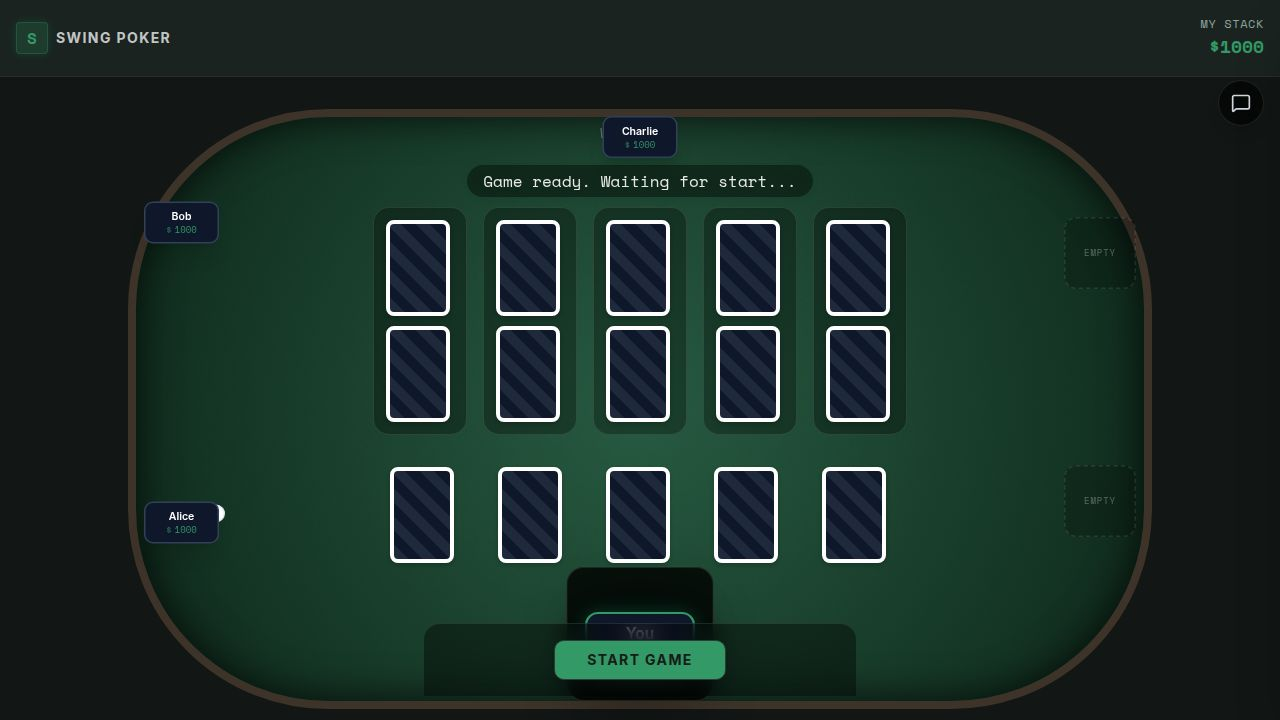
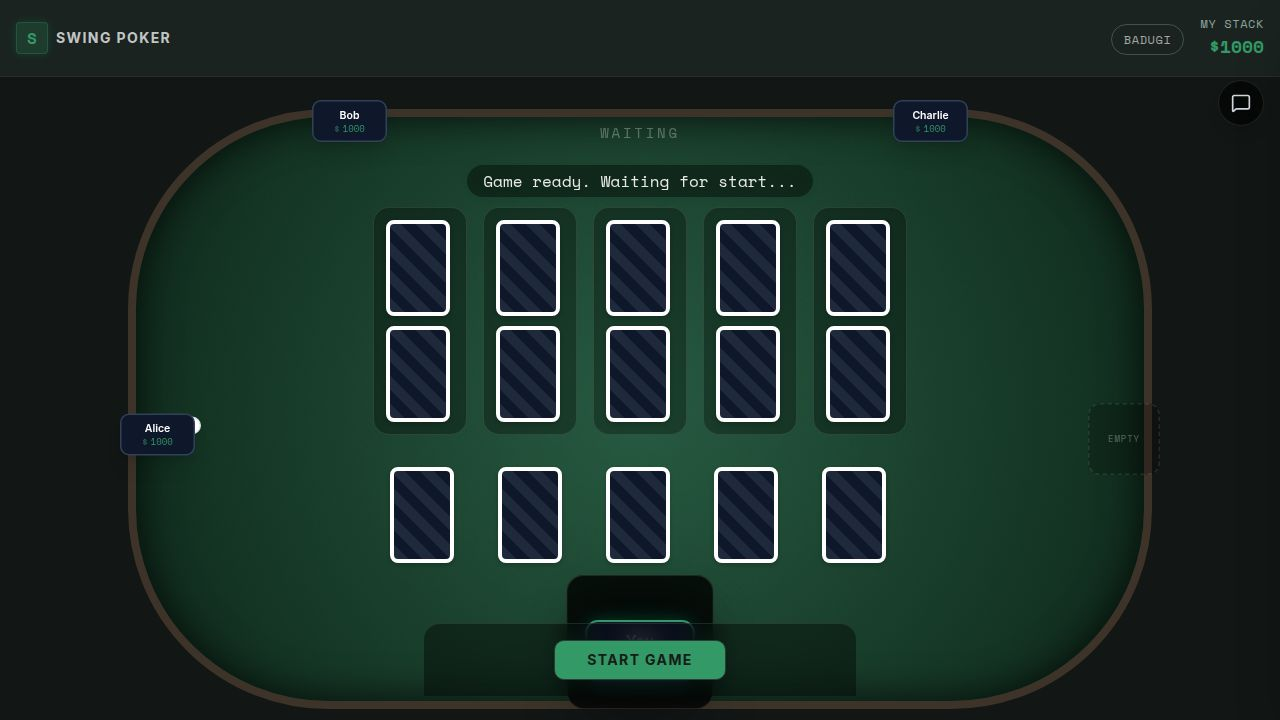
Adjust table layouts and fix game-halting bug in Badugi
Updates player seat positioning for improved mobile layout stability and resolves a critical bug in the Badugi game mode that caused a stall during the second draw phase by modifying the round progression logic.

Replit-Commit-Author: Agent
Replit-Commit-Session-Id: a8a0903d-6548-4b69-8b8f-c89d01671870
Replit-Commit-Checkpoint-Type: full_checkpoint
Replit-Commit-Event-Id: 6bbb62db-2211-43d4-8093-cc083d1be6a8
Replit-Commit-Screenshot-Url: https://storage.googleapis.com/screenshot-production-us-central1/b30810ef-c64c-449c-a8ce-6b19686a9135/a8a0903d-6548-4b69-8b8f-c89d01671870/LN8tTRZ
Replit-Helium-Checkpoint-Created: true

diff --git a/client/src/components/game/BadugiTable.tsx b/client/src/components/game/BadugiTable.tsx
@@ -27,25 +27,25 @@ export function BadugiTable({ gameState, myId, selectedCardIndices, onCardClick,
   const isShowdown = gameState.phase === 'SHOWDOWN';
 
   const getOpponentPosition = (index: number, total: number) => {
-    if (total === 1) return "top-6 sm:top-8 left-1/2 -translate-x-1/2";
+    if (total === 1) return "-top-2 sm:top-2 left-1/2 -translate-x-1/2";
     if (total === 2) {
       return [
-        "top-[15%] left-[22%] -translate-x-1/2",
-        "top-[15%] right-[22%] translate-x-1/2",
+        "-top-2 sm:top-2 left-[20%] sm:left-[25%] -translate-x-1/2",
+        "-top-2 sm:top-2 right-[20%] sm:right-[25%] translate-x-1/2",
       ][index];
     }
     if (total === 3) {
       return [
-        "top-[20%] left-[12%] sm:left-[15%]",
-        "top-4 sm:top-6 left-1/2 -translate-x-1/2",
-        "top-[20%] right-[12%] sm:right-[15%]",
+        "top-[18%] -left-2 sm:left-2",
+        "-top-2 sm:top-2 left-1/2 -translate-x-1/2",
+        "top-[18%] -right-2 sm:right-2",
       ][index];
     }
     return [
-      "left-4 sm:left-8 top-[35%] -translate-y-1/2",
-      "top-4 sm:top-6 left-[30%] -translate-x-1/2",
-      "top-4 sm:top-6 right-[30%] translate-x-1/2",
-      "right-4 sm:right-8 top-[35%] -translate-y-1/2",
+      "top-[30%] -left-4 sm:-left-1 -translate-y-1/2",
+      "-top-2 sm:top-2 left-[28%] sm:left-[30%] -translate-x-1/2",
+      "-top-2 sm:top-2 right-[28%] sm:right-[30%] translate-x-1/2",
+      "top-[30%] -right-4 sm:-right-1 -translate-y-1/2",
     ][index] || "hidden";
   };
 

diff --git a/client/src/components/game/GameTable.tsx b/client/src/components/game/GameTable.tsx
@@ -21,11 +21,11 @@ export function GameTable({ gameState, myId, selectedCardIndices, onCardClick, s
 
   const getSeatPosition = (index: number) => {
     const positions = [
-      "bottom-2 left-1/2 -translate-x-1/2 scale-110 origin-bottom",
-      "left-2 sm:left-6 top-1/2 -translate-y-1/2 scale-75 origin-left",
-      "top-4 sm:top-6 left-[20%] -translate-x-1/2 scale-75 origin-top",
-      "top-4 sm:top-6 right-[20%] translate-x-1/2 scale-75 origin-top",
-      "right-2 sm:right-6 top-1/2 -translate-y-1/2 scale-75 origin-right",
+      "bottom-0 left-1/2 -translate-x-1/2 scale-110 origin-bottom",
+      "-left-4 sm:-left-2 top-[55%] -translate-y-1/2 scale-[0.65] sm:scale-75 origin-left",
+      "-top-2 sm:top-0 left-[15%] sm:left-[18%] scale-[0.65] sm:scale-75 origin-top-left",
+      "-top-2 sm:top-0 right-[15%] sm:right-[18%] scale-[0.65] sm:scale-75 origin-top-right",
+      "-right-4 sm:-right-2 top-[55%] -translate-y-1/2 scale-[0.65] sm:scale-75 origin-right",
     ];
     return positions[index] || "hidden";
   };

diff --git a/client/src/lib/poker/engine/useGameEngine.ts b/client/src/lib/poker/engine/useGameEngine.ts
@@ -46,6 +46,7 @@ export function useGameEngine(mode: GameMode, myId: string = 'p1') {
       
       // Reset bets on new betting round
       const isBetRound = nextPhase.startsWith('BET') || nextPhase === 'DECLARE_AND_BET' || nextPhase === 'BET_3';
+      const isDrawRound = nextPhase.startsWith('DRAW');
       return { 
         ...s, 
         phase: nextPhase, 
@@ -54,7 +55,7 @@ export function useGameEngine(mode: GameMode, myId: string = 'p1') {
         players: s.players.map(p => ({
           ...p,
           hasActed: false,
-          bet: isBetRound ? 0 : p.bet
+          bet: (isBetRound || isDrawRound) ? 0 : p.bet
         })),
         messages: [...s.messages, { id: Math.random().toString(), text: `Phase changed to ${nextPhase.replace(/_/g, ' ')}`, time: Date.now() }].slice(-5)
       };

diff --git a/client/src/lib/poker/modes/badugi.ts b/client/src/lib/poker/modes/badugi.ts
@@ -125,7 +125,8 @@ export const BadugiMode: GameMode = {
     const activePlayers = newPlayers.filter(p => p.status === 'active' && p.chips > 0);
     const allActed = activePlayers.every(p => p.hasActed);
     const allBetsMatch = activePlayers.every(p => p.bet === newCurrentBet);
-    const roundOver = state.phase === 'DECLARE' ? allActed : (allActed && allBetsMatch);
+    const isDrawRound = ['DRAW_1', 'DRAW_2', 'DRAW_3'].includes(state.phase);
+    const roundOver = (state.phase === 'DECLARE' || isDrawRound) ? allActed : (allActed && allBetsMatch);
 
     let nextPlayerId = undefined;
     if (!roundOver) {
